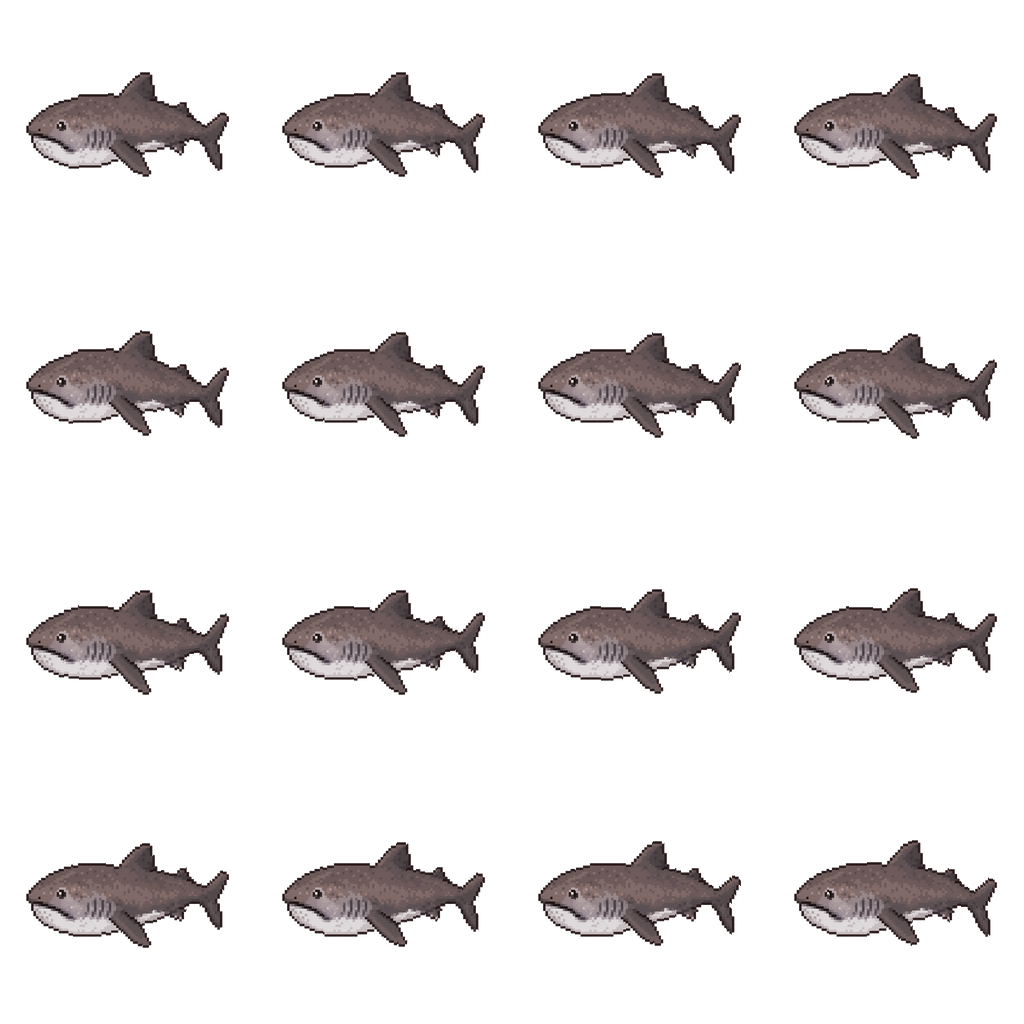
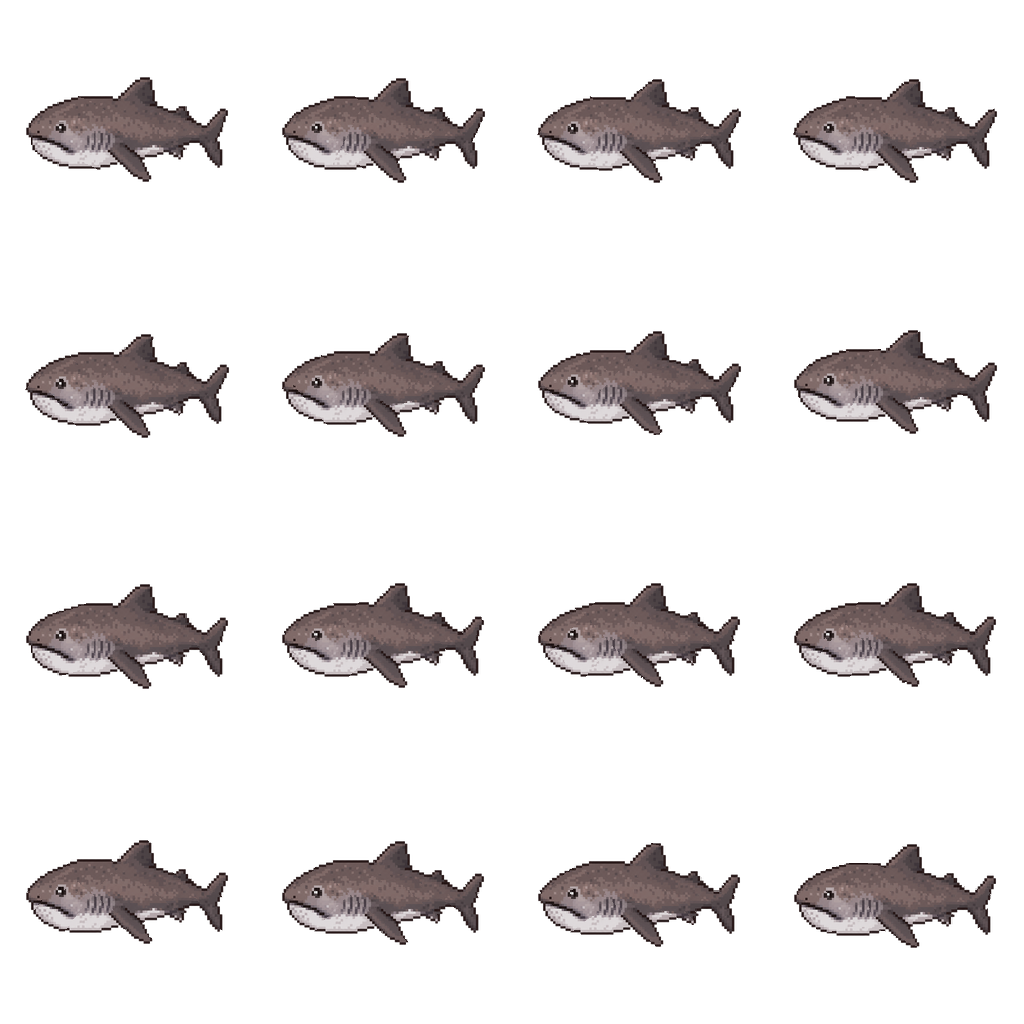
Per-species swimming modes for every fish
Replaces the one-size wave with eleven profiles drawn from how these animals
actually swim. Two parametric engines cover most of it:

  frame_bcf  body-and-caudal-fin. The envelope exponent controls how far
             forward the wave reaches - 1.0 undulates end to end like an eel,
             4.2 confines it to the tail like a tuna whose body is a rigid
             spear. Gives thunniform, carangiform, subcarangiform,
             anguilliform and slow_cruise.
  frame_mpf  median- and paired-fin, for reef fish that hold the body stiff
             and row with their fins. Gives labriform (pectoral rowers) and
             balistiform (triggerfish, which ripple dorsal and anal instead).

Plus the four one-off shapes: veil, rigid, shrimp, sway.

Everything now runs through the mesh warp on top of a rigid-body rotation, so
fish move as solid animals with local deformation rather than shearing. The old
column-sliding frame_swim is gone.

Loop closure verified per profile by rendering phase 2*pi and differencing
against frame 0: maximum channel difference 0 for all eleven. All 30 sprites
load animated with 16 non-blank frames.

diff --git a/make_spritesheet.py b/make_spritesheet.py
@@ -12,10 +12,11 @@ Sheets that already contain a 4x4 grid are detected by their transparent
 gutters and left alone. Size is not a reliable test: pictus_catfish arrived as a
 1024x1024 *still*, which the app would happily have sliced into 16 fragments.
 
-Motion styles, because not everything in a tank swims like a fish:
-  swim   travelling wave down the body, weighted to the tail (default)
-  hover  body holds its shape and sculls - shrimp and other crustaceans
-  sway   upright body, curled tail sways side to side - seahorses
+Each fish is assigned a swimming mode based on how the animal actually moves:
+thunniform and carangiform for rigid-bodied cruisers, subcarangiform and
+anguilliform for fish that undulate, labriform and balistiform for reef fish
+that hold the body still and row with their fins, plus one-off profiles for the
+betta, pufferfish, shrimp and seahorse. See PROFILES.
 """
 
 import argparse
@@ -32,15 +33,6 @@ FRAMES = GRID * GRID
 
 ASSETS = "assets"
 STILLS = os.path.join(ASSETS, "stills")
-
-# Anything not listed swims.
-MOTION = {
-    "betta_fish": "veil",
-    "cherry_shrimp": "shrimp",
-    "pufferfish": "rigid",
-    "seahorse": "sway",
-}
-
 
 # ===== analysis ===========================================================
 
@@ -98,18 +90,6 @@ def fit(image, size=FRAME):
 
 
 # ===== motion =============================================================
-
-def frame_swim(base, phase, amplitude=9.0, waves=1.3):
-    """Travelling wave along the body. The art faces left, so the tail is on the
-    right - displacement grows towards it while the head stays steady."""
-    width, height = base.size
-    out = Image.new("RGBA", (width, height), (0, 0, 0, 0))
-    for x in range(width):
-        t = x / max(1, width - 1)
-        offset = amplitude * (t ** 2) * math.sin(phase + t * waves * 2 * math.pi)
-        out.paste(base.crop((x, 0, x + 1, height)), (x, int(round(offset))))
-    return out
-
 
 def smoothstep(edge0, edge1, x):
     t = min(1.0, max(0.0, (x - edge0) / (edge1 - edge0)))
@@ -277,16 +257,66 @@ def frame_shrimp(base, phase):
     return mesh_warp(base, displace)
 
 
-def frame_hover(base, phase, amplitude=6.0):
-    """Shrimp hold their shape and scull, so the whole body bobs and tilts
-    instead of undulating."""
-    width, height = base.size
-    out = Image.new("RGBA", (width, height), (0, 0, 0, 0))
-    dy = amplitude * math.sin(phase)
-    dx = amplitude * 0.5 * math.sin(phase * 2 + 0.6)
-    body = base.rotate(2.2 * math.sin(phase + 0.4), resample=Image.BICUBIC, expand=False)
-    out.paste(body, (int(round(dx)), int(round(dy))))
-    return out
+def frame_bcf(base, phase, amplitude=9.0, envelope=2.0, waves=1.1, beat=1,
+              swing=2.0, pivot_u=0.24, bob=1.6):
+    """Body-and-caudal-fin swimming, the mode most fish use.
+
+    `envelope` is the whole story. It controls how far forward the wave reaches:
+    1.0 undulates end to end like an eel, 4.0 confines everything to the tail
+    like a tuna whose body is effectively a rigid spear. Between those two sit
+    most reef fish.
+
+    A rigid swing is applied underneath so the fish also moves as a solid body
+    rather than only rippling in place.
+    """
+    def displace(u, v):
+        dx, dy = rigid_offset(u, v, swing * math.sin(beat * phase), pivot=(pivot_u, 0.5))
+        dy += bob * math.sin(beat * phase + 0.9)
+        dy += amplitude * (u ** envelope) * math.sin(beat * phase + u * waves * 2 * math.pi)
+        return dx, dy
+
+    return mesh_warp(base, displace, cells=28)
+
+
+def frame_mpf(base, phase, swing=1.5, bob=2.8, tail_amp=3.5, tail_beat=1,
+              pectoral=(0.28, 0.52, 0.44, 0.74), pectoral_amp=3.6, pectoral_beat=3,
+              median_amp=0.0, median_beat=2, dorsal_v=0.30, anal_v=0.70):
+    """Median- and paired-fin swimming: the body stays stiff, fins do the work.
+
+    Wrasses, parrotfish, tangs and angelfish row with their pectorals and hold
+    the body almost straight; triggerfish instead ripple the dorsal and anal
+    fins. Both are expressed here - `pectoral_amp` for the rowers, `median_amp`
+    for the ripplers - because in both cases the body itself barely bends.
+
+    Fin regions are approximate rectangles in normalised coordinates; without a
+    per-fish mask that is as precise as this can honestly get.
+    """
+    u0, u1, v0, v1 = pectoral
+
+    def displace(u, v):
+        dx, dy = rigid_offset(u, v, swing * math.sin(phase), pivot=(0.30, 0.50))
+        dy += bob * math.sin(phase + 0.5)
+
+        # the tail still contributes, but as a trailing rudder
+        tail = smoothstep(0.70, 1.0, u)
+        dy += tail_amp * tail * math.sin(tail_beat * phase + 0.4)
+
+        if pectoral_amp:
+            fan = (smoothstep(u0, u0 + 0.06, u) * (1.0 - smoothstep(u1 - 0.06, u1, u))
+                   * smoothstep(v0, v0 + 0.05, v) * (1.0 - smoothstep(v1 - 0.05, v1, v)))
+            dy += pectoral_amp * fan * math.sin(pectoral_beat * phase)
+            dx += pectoral_amp * 0.6 * fan * math.sin(pectoral_beat * phase + 1.5)
+
+        if median_amp:
+            # dorsal above, anal below, travelling tail-ward and in antiphase
+            dorsal = (1.0 - smoothstep(dorsal_v - 0.10, dorsal_v, v)) * smoothstep(0.20, 0.35, u)
+            anal = smoothstep(anal_v, anal_v + 0.10, v) * smoothstep(0.25, 0.40, u)
+            dy += median_amp * dorsal * math.sin(median_beat * phase + u * 6.0)
+            dy += median_amp * anal * math.sin(median_beat * phase + u * 6.0 + math.pi)
+
+        return dx, dy
+
+    return mesh_warp(base, displace, cells=30)
 
 
 def frame_sway(base, phase, amplitude=9.0, bob=3.5):
@@ -302,16 +332,89 @@ def frame_sway(base, phase, amplitude=9.0, bob=3.5):
     return out
 
 
-FRAME_FN = {"swim": frame_swim, "hover": frame_hover, "sway": frame_sway,
-            "shrimp": frame_shrimp, "veil": frame_veil,
-            "rigid": frame_rigid_fins}
+# Each profile is a frame function plus its parameters. Assignments below follow
+# how these animals actually swim - the classification is real biomechanics, not
+# invention - though at ~64px in the tank the coarse groups read far more
+# clearly than the fine distinctions between them.
+PROFILES = {
+    # --- body and caudal fin: the wave reaches progressively further forward ---
+    "thunniform":     (frame_bcf, dict(amplitude=6.5, envelope=4.2, waves=0.55,
+                                       beat=1, swing=1.5, pivot_u=0.16, bob=1.0)),
+    "carangiform":    (frame_bcf, dict(amplitude=9.0, envelope=2.6, waves=0.95,
+                                       beat=1, swing=2.0, pivot_u=0.22, bob=1.4)),
+    "subcarangiform": (frame_bcf, dict(amplitude=7.5, envelope=1.9, waves=1.15,
+                                       beat=2, swing=2.2, pivot_u=0.26, bob=1.6)),
+    "anguilliform":   (frame_bcf, dict(amplitude=10.0, envelope=1.0, waves=1.75,
+                                       beat=1, swing=1.0, pivot_u=0.38, bob=1.2)),
+    "slow_cruise":    (frame_bcf, dict(amplitude=5.0, envelope=3.0, waves=0.6,
+                                       beat=1, swing=1.2, pivot_u=0.18, bob=2.4)),
+
+    # --- median and paired fins: body stiff, fins doing the work ---
+    "labriform":      (frame_mpf, dict(pectoral_amp=4.2, pectoral_beat=3,
+                                       median_amp=0.0, tail_amp=3.2, swing=1.5, bob=3.0)),
+    "balistiform":    (frame_mpf, dict(pectoral_amp=1.2, pectoral_beat=2,
+                                       median_amp=4.6, median_beat=2,
+                                       tail_amp=2.2, swing=1.1, bob=2.6)),
+
+    # --- one-off shapes that none of the above describe ---
+    "veil":   (frame_veil, {}),
+    "rigid":  (frame_rigid_fins, {}),
+    "shrimp": (frame_shrimp, {}),
+    "sway":   (frame_sway, {}),
+}
+
+# Anything unlisted falls back to DEFAULT_PROFILE.
+DEFAULT_PROFILE = "carangiform"
+
+MOTION = {
+    # rigid-bodied speed: only the tail moves
+    "tuna": "thunniform",
+    "swordfish": "thunniform",
+    "lost_shark": "thunniform",
+
+    # large and unhurried
+    "mega_mouth_shark": "slow_cruise",
+    "coelacanth": "slow_cruise",
+    "opah": "slow_cruise",
+
+    # steady cruisers, wave over the rear third
+    "sardine": "carangiform",
+    "squirrelfish": "carangiform",
+
+    # small and quick, wave over the rear half, twice per cycle
+    "devil_pupfish": "subcarangiform",
+    "florida_flag_fish": "subcarangiform",
+    "long_finned_zebra_dania": "subcarangiform",
+    "pictus_catfish": "subcarangiform",
+
+    # juvenile sweetlips genuinely undulate end to end
+    "ribboned_sweetlips": "anguilliform",
+
+    # reef fish that row with their pectorals and hold the body straight
+    "parrotfish": "labriform",
+    "green_bird_wrasse": "labriform",
+    "blue_hippo_tang": "labriform",
+    "longnose_butterfly_fish": "labriform",
+    "peppermint_angelfish": "labriform",
+    "royal_gramma": "labriform",
+    "coral_grouper": "labriform",
+
+    # triggerfish ripple the dorsal and anal fins instead
+    "picasso_triggerfish": "balistiform",
+
+    # shapes of their own
+    "betta_fish": "veil",
+    "pufferfish": "rigid",
+    "cherry_shrimp": "shrimp",
+    "seahorse": "sway",
+}
 
 
-def build_sheet(base, motion="swim"):
-    make_frame = FRAME_FN[motion]
+def build_sheet(base, profile=DEFAULT_PROFILE):
+    make_frame, options = PROFILES[profile]
     sheet = Image.new("RGBA", (SHEET, SHEET), (0, 0, 0, 0))
     for i in range(FRAMES):
-        cell = make_frame(base, 2 * math.pi * i / FRAMES)
+        cell = make_frame(base, 2 * math.pi * i / FRAMES, **options)
         sheet.paste(cell, ((i % GRID) * FRAME, (i // GRID) * FRAME))
     return sheet
 
@@ -349,7 +452,7 @@ def main():
             already.append(fish_id)
             continue
 
-        motion = MOTION.get(fish_id, "swim")
+        motion = MOTION.get(fish_id, DEFAULT_PROFILE)
         base = fit(trim(source))
         sheet = build_sheet(base, motion)
 
